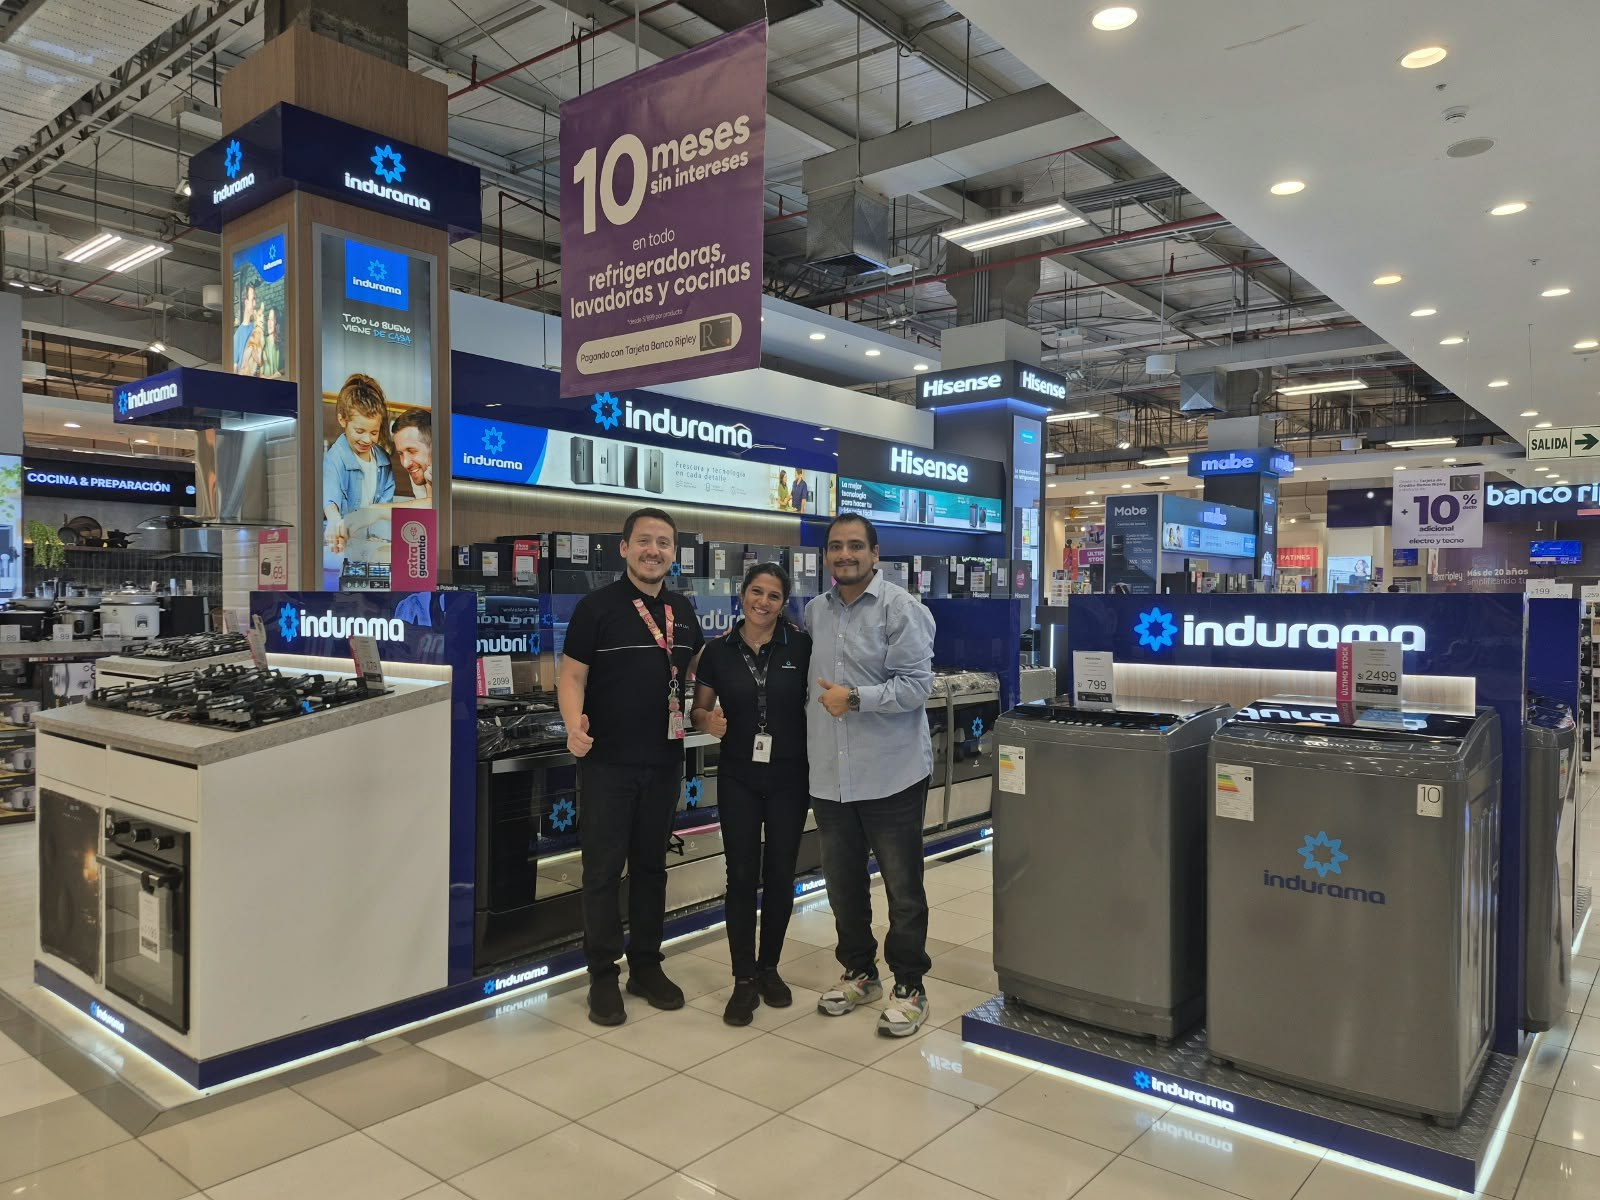
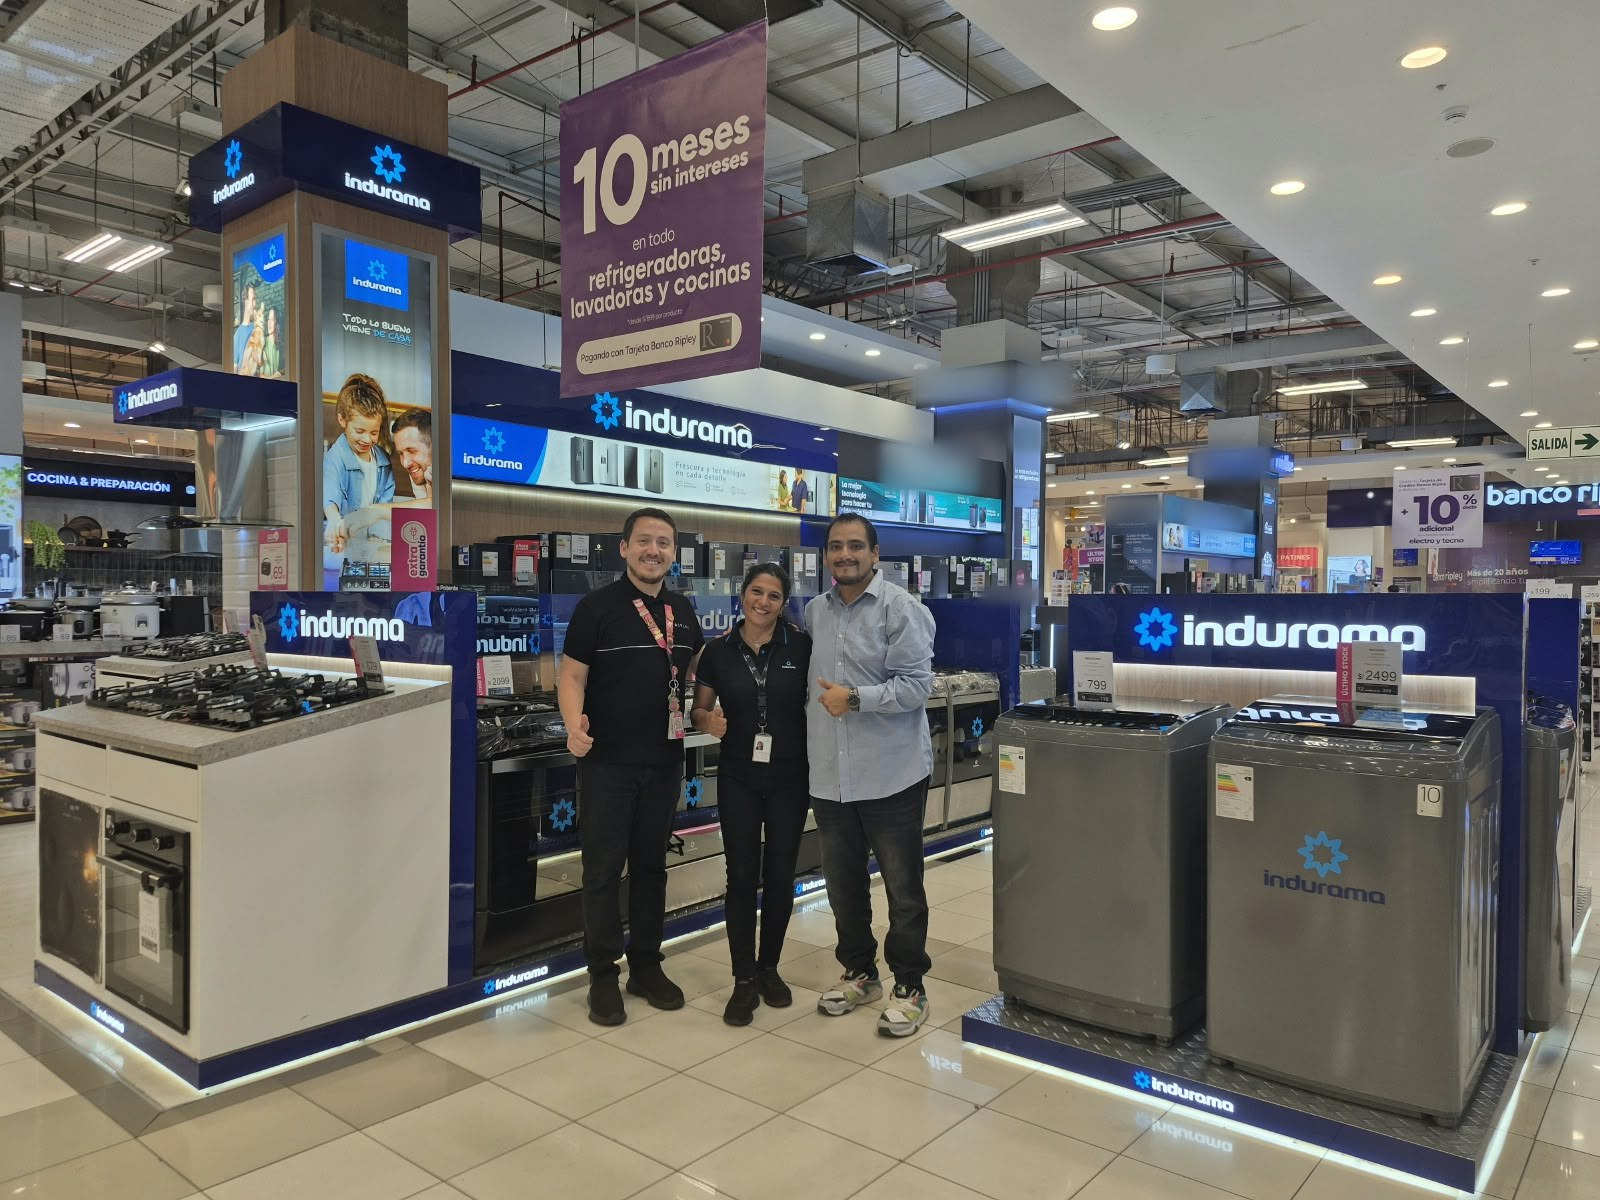
Region Norte (Saga Chiclayo, flooring antes/ahora, foto del equipo) y Lima Norte (Ripley San Miguel); marcas de la competencia difuminadas

Changed region(s): [[0.5312, 0.2775, 0.6875, 0.4317], [0.6875, 0.37, 0.8125, 0.4625], [0.625, 0.4933, 0.6562, 0.5242]]

diff --git a/historia/index.html b/historia/index.html
@@ -406,6 +406,13 @@ body.guia #num{display:block}
 .r26-grid span{font:700 30px CormSC;letter-spacing:1px;color:#f3e8c9}
 .r26-grid b{font:700 60px/1 Cinzel;background:var(--oro);-webkit-background-clip:text;background-clip:text;color:transparent;filter:drop-shadow(0 2px 4px rgba(0,0,0,.8))}
 .r26-grid b small{font-size:30px;margin-left:2px}
+.r26-ah{padding:22px 26px}
+.r26-ah > em{letter-spacing:4px;font-size:19px;white-space:nowrap}
+.r26-ah .r26-grid div{display:grid;grid-template-columns:1fr auto auto auto;align-items:baseline;gap:12px}
+.r26-ah .r26-grid i{font:700 30px Cinzel;font-style:normal;color:rgba(243,232,201,.55)}
+.r26-ah .r26-grid div em{font:400 28px Arial;font-style:normal;color:#e8c77a;border:0;padding:0;letter-spacing:0}
+.r26-ah .r26-grid b{font-size:56px}
+.r26-grid .r26-desde{display:block;margin:-10px 0 4px;text-align:right;font:500 italic 22px Playfair;color:#d9c08a}
 .r26-stats[style*="--cols:2"]{padding:22px 24px}
 .r26-stats[style*="--cols:2"] .r26-grid{gap:14px 30px}
 .r26-stats[style*="--cols:2"] .r26-grid span{font-size:26px}
@@ -598,7 +605,7 @@ body.guia #num{display:block}
     <div class="r26-lado">
       <div class="r26-clan an" style="--i:0"><i></i>LOS LOBOS</div>
       <div class="r26-reg zoom" style="--i:1">LIMA NORTE</div>
-      <div class="an" style="--i:3"><div class="r26-tienda"><small>LOGRO</small><b>LÍDERES EN COCINAS</b></div></div>
+      <div class="an" style="--i:3"><div class="r26-tienda"><small>TIENDA</small><b>RIPLEY SAN MIGUEL</b></div></div>
       <div class="r26-fotos"><div class="r26-foto an" style="--i:5;left:0px;top:0px;width:840px;height:410px"><div class="slot" data-r="2026 LIMA NORTE 1" data-desc="Foto 1 · LIMA NORTE"></div></div><div class="r26-stats an" style="--i:7;left:870px;width:380px;--cols:1"><em>PARTICIPACIÓN EN PISO</em><div class="r26-grid"><div><span>Cocinas</span><b>36<small>%</small></b></div><div><span>Refrigeración</span><b>22<small>%</small></b></div><div><span>Lavado</span><b>13<small>%</small></b></div></div></div></div>
       <div class="r26-accion an" style="--i:9"><small>LA ACCIÓN</small><div>Lideramos la exhibición de cocinas y vamos por refrigeración y lavado.</div></div>
     </div>
@@ -647,15 +654,15 @@ body.guia #num{display:block}
       <div class="r26-accion an" style="--i:9"><small>LA ACCIÓN</small><div>Vendiendo por kiosko abrimos categorías nuevas, y hoy las congeladoras siguen en piso.</div></div>
     </div>
   </section>
-  <section class="d" data-tema="jun" data-f="14-6" data-musica="media/musica_jungla_fase.mp3" data-vol="bajo" data-nota="Región NORTE: fotos en recursos/2026 NORTE 1.jpg, 2.jpg…">
+  <section class="d" data-tema="jun" data-f="14-6" data-musica="media/musica_jungla_fase.mp3" data-vol="bajo" data-nota="Región NORTE: fotos en recursos/2026 NORTE 1.jpg, 2.jpg, 3.jpg">
     <div class="bg"></div><div class="capa-oscura" style="background:rgba(0,0,0,.3)"></div>
     <div class="r26-animal"><video src="media/AGUILA_loop.mp4" muted loop playsinline></video></div>
     <div class="r26-lado">
       <div class="r26-clan an" style="--i:0"><i></i>LAS ÁGUILAS</div>
       <div class="r26-reg zoom" style="--i:1">NORTE</div>
-      <div class="an" style="--i:3"><div class="r26-tienda"><small>TIENDA</small><b>NOMBRE DE LA TIENDA</b></div></div>
-      <div class="r26-fotos"><div class="r26-foto an" style="--i:5;left:0px;top:0px;width:610px;height:410px"><div class="slot" data-r="2026 NORTE 1" data-desc="Foto 1 · NORTE"></div></div><div class="r26-foto an" style="--i:6;left:640px;top:0px;width:610px;height:410px"><div class="slot" data-r="2026 NORTE 2" data-desc="Foto 2 · NORTE"></div></div></div>
-      <div class="r26-accion an" style="--i:9"><small>LA ACCIÓN</small><div>Aquí va, en una frase corta, la acción que hizo la región.</div></div>
+      <div class="an" style="--i:3"><div class="r26-tienda"><small>TIENDA</small><b>SAGA CHICLAYO</b></div></div>
+      <div class="r26-fotos"><div class="r26-foto an" style="--i:5;left:0px;top:0px;width:470px;height:410px"><div class="slot" data-r="2026 NORTE 1" data-desc="Foto 1 · NORTE"></div></div><div class="r26-foto an" style="--i:6;left:490px;top:0px;width:250px;height:197px"><div class="slot" data-r="2026 NORTE 2" data-desc="Foto 2 · NORTE"></div></div><div class="r26-foto an" style="--i:7;left:490px;top:213px;width:250px;height:197px"><div class="slot" data-r="2026 NORTE 3" data-desc="Foto 3 · NORTE"></div></div><div class="r26-stats r26-ah an" style="--i:7;left:770px;width:480px;--cols:1"><em>FLOORING · ANTES → AHORA</em><div class="r26-grid"><div><span>Cocinas</span><i>11%</i><em>→</em><b>36<small>%</small></b></div><div><span>Refrigeración</span><i>7%</i><em>→</em><b>14<small>%</small></b></div><div><span>Lavado</span><i>0%</i><em>→</em><b>17<small>%</small></b></div></div></div></div>
+      <div class="r26-accion an" style="--i:9"><small>LA ACCIÓN</small><div>Trabajo en equipo de KAM, supervisor y promotor: ganamos piso en las tres categorías.</div></div>
     </div>
   </section>
 
@@ -939,7 +946,7 @@ function brasas(){ const cv=document.getElementById("brasas"), x=cv.getContext("
 let actual=-1;
 const vjun=document.getElementById("vjun");
 /* ===== NOTAS DEL PRESENTADOR (tecla N, solo para repasar) ===== */
-const NOTAS={"00": {"t": "Portada", "x": "Buenas noches a todos. Hoy no venimos solo a ver números: venimos a contar una historia. La historia de cómo, en tres años, fuimos ganando el piso de venta, tienda por tienda. <i>(Pausa, dejar que se vea el título.)</i> Esta es… la conquista del piso."}, "03": {"t": "Las 3 fases", "x": "Como toda gran saga, esta historia tiene tres capítulos. <b>2024</b>, el despegue: la Guerra de los Pisos. <b>2025</b>, la expansión: la Liga Invencible. Y <b>2026</b>, la consolidación: la Jungla del Flooring. Tres años, tres batallas, un solo objetivo: ser la marca que manda en el piso."}, "04": {"t": "Fase 1 · 2024", "x": "Empezamos en 2024. El reto era claro: ganar presencia en el piso de venta frente a marcas muy establecidas. Fue nuestro despegue, la Guerra de los Pisos."}, "05": {"t": "El rival · coreanas", "x": "Del otro lado estaban las marcas coreanas. Tenían el espacio, la exhibición y la costumbre del cliente. Cada tienda tenía su piso… y no era nuestro. Para competir había que estar mejor exhibidos y más cerca del cliente."}, "06": {"t": "Fase 1 · Las misiones", "x": "¿Cómo lo hicimos? Con tres frentes: <b>exhibiciones</b> que se notaran en tienda, <b>fidelización</b>, cuidando la relación con cada cliente, y una <b>tripulación</b> unida. Cada exhibición armada y cada cliente atendido fue un paso adelante."}, "07": {"t": "Ganamos la primera batalla", "x": "Y lo logramos: ganamos la primera batalla y recuperamos piso de tienda. Fue la prueba de que, cuando el equipo empuja en la misma dirección, el piso responde."}, "08": {"t": "Fase 2 · 2025", "x": "Llegó 2025, la fase de la expansión. Ya no se trataba solo de defender: había que crecer, llegar a más tiendas y a más ciudades. Así nació la Liga Invencible."}, "09": {"t": "El rival · chinas", "x": "Pero apareció un nuevo rival: las marcas chinas, que llegaron con precio y con volumen. Era un desafío distinto, y había que responder con lo que nos diferencia: exhibición, servicio y equipo."}, "09b": {"t": "Antes y después", "x": "Y esto se ve en el piso. <i>(Señalar la izquierda.)</i> Así se veía antes: productos sueltos, en fila, sin nada que los distinga… <i>(pausa, señalar la derecha)</i> y así se ve hoy: módulos, columnas e islas con la marca. Pasamos de productos sueltos a espacios con marca."}, "10": {"t": "Fase 2 · La expansión", "x": "La respuesta fue clara. <b>Más piso</b>: más y mejores exhibiciones. <b>Más ventas</b>: promotores que convierten cada visita en una venta. <b>Equipo mejor capacitado</b>: promotores que se prepararon para vender mejor. <i>(Pausa.)</i> Así, la Liga se volvió invencible."}, "11": {"t": "Ganamos la segunda batalla", "x": "Y otra vez lo logramos: <b>ganamos la segunda batalla</b>. La Liga llegó a más tiendas y a más ciudades, con más piso, más ventas y un equipo mejor preparado."}, "12": {"t": "Fase 3 · 2026", "x": "Y llegamos a este año, 2026: la Jungla del Flooring. La fase de la consolidación, donde todo lo construido tenía que dar su mejor resultado."}, "13": {"t": "El reto", "x": "En 2026 el reto cambió. <i>(Pausa.)</i> Ya no había que conquistar el piso… <i>(pausa)</i> había que sostenerlo. Y sostener es más difícil que conquistar: exige constancia todos los días, en cada tienda."}, "14-1": {"t": "Región Lima Norte", "x": "<b>Lima Norte</b>, los lobos. Nuestra mayor fortaleza está en cocinas: lideramos la participación de exhibición con <b>36 %</b>. En refrigeración (22 %) y lavado (13 %) tenemos espacio para crecer, con más productos exhibidos y más presencia de marca en el punto de venta."}, "14-2": {"t": "Región Lima Sur", "x": "<b>Lima Sur</b>, los halcones. En <b>Metro Próceres</b> fortalecimos la relación con el jefe de tienda y los vendedores. Implementamos módulos de cocina y refrigeración y, junto al promotor, ganamos nuevos espacios: cocinas 40 %, refrigeración 40 %, lavado 16 % y congeladoras 50 %."}, "14-3": {"t": "Región Lima Centro", "x": "<b>Lima Centro</b>, los leones. <b>Oechsle Centro Cívico</b> es el ejemplo de un flooring afianzado: por los muebles presentes, por la participación frente a otras marcas y por cómo se sostuvieron las ventas."}, "14-4": {"t": "Región Sur · Oriente", "x": "<b>Sur · Oriente</b>, las pirañas. En Arequipa se formó y fidelizó un equipo de promotores, trabajando de cerca con cada uno. En <b>Tienda Estilos</b> mejoramos posicionamiento y exhibición con el promotor: cocinas 42 %, refrigeración 27 % y lavado 19 %."}, "14-5": {"t": "Región Centro Nsch", "x": "<b>Centro NSCH</b>, los jaguares. En <b>Oechsle Ica</b> el éxito del flooring vino de vender por kiosko categorías que no teníamos en piso. Hoy mantenemos congeladoras en el piso de venta, y eso ayudó a armar las rumas de PEDs."}, "14-6": {"t": "Región Norte", "x": "<b>Norte</b>, las águilas. <i>(Pendiente: tienda y acción.)</i>"}, "15": {"t": "Una sola manada", "x": "Esto se logró en todo el país: Chiclayo, Huánuco, Iquitos, Trujillo y cada ciudad donde estamos, con exhibiciones impecables y una atención cercana. <i>(Esperar a que caigan las fotos.)</i> Muchas ciudades, muchos equipos… una sola manada."}, "15b": {"t": "Ganamos la tercera batalla", "x": "Y en 2026, el reto más difícil: sostener lo conquistado. <i>(Pausa.)</i> Lo hicimos. <b>Ganamos la tercera batalla</b>: sostuvimos el piso, tienda por tienda, región por región. <i>(Pausa antes de mostrar los números.)</i>"}, "16": {"t": "Clímax · Marca N.º 1", "x": "Miremos el camino. En 2023 partimos con el <b>12,8 %</b> de participación: éramos terceros. En 2024 crecimos al <b>18,6 %</b>. En 2025 subimos al <b>22,0 %</b>: segundos. <i>(Los escalones se detienen en 2025. Pausa.)</i> ¿Y en 2026…? <i>(Clic para revelar 2026.)</i> <b>24,8 %</b>. <i>(Dejar que aparezca.)</i> Somos la marca número uno. <br><small>⚠ Confirmar que los porcentajes estén validados y qué miden antes del evento.</small>"}, "18": {"t": "2027 · La historia continúa", "x": "Y esto no termina aquí. 2027 ya viene, con nuevos retos y nuevas metas. La historia continúa… <i>(pausa)</i> y el liderazgo continúa. <i>(Pausa.)</i> Pero antes de mirar al futuro, hoy queremos reconocer a quienes hicieron posible este año. <b>Pasamos a la premiación.</b>"}};
+const NOTAS={"00": {"t": "Portada", "x": "Buenas noches a todos. Hoy no venimos solo a ver números: venimos a contar una historia. La historia de cómo, en tres años, fuimos ganando el piso de venta, tienda por tienda. <i>(Pausa, dejar que se vea el título.)</i> Esta es… la conquista del piso."}, "03": {"t": "Las 3 fases", "x": "Como toda gran saga, esta historia tiene tres capítulos. <b>2024</b>, el despegue: la Guerra de los Pisos. <b>2025</b>, la expansión: la Liga Invencible. Y <b>2026</b>, la consolidación: la Jungla del Flooring. Tres años, tres batallas, un solo objetivo: ser la marca que manda en el piso."}, "04": {"t": "Fase 1 · 2024", "x": "Empezamos en 2024. El reto era claro: ganar presencia en el piso de venta frente a marcas muy establecidas. Fue nuestro despegue, la Guerra de los Pisos."}, "05": {"t": "El rival · coreanas", "x": "Del otro lado estaban las marcas coreanas. Tenían el espacio, la exhibición y la costumbre del cliente. Cada tienda tenía su piso… y no era nuestro. Para competir había que estar mejor exhibidos y más cerca del cliente."}, "06": {"t": "Fase 1 · Las misiones", "x": "¿Cómo lo hicimos? Con tres frentes: <b>exhibiciones</b> que se notaran en tienda, <b>fidelización</b>, cuidando la relación con cada cliente, y una <b>tripulación</b> unida. Cada exhibición armada y cada cliente atendido fue un paso adelante."}, "07": {"t": "Ganamos la primera batalla", "x": "Y lo logramos: ganamos la primera batalla y recuperamos piso de tienda. Fue la prueba de que, cuando el equipo empuja en la misma dirección, el piso responde."}, "08": {"t": "Fase 2 · 2025", "x": "Llegó 2025, la fase de la expansión. Ya no se trataba solo de defender: había que crecer, llegar a más tiendas y a más ciudades. Así nació la Liga Invencible."}, "09": {"t": "El rival · chinas", "x": "Pero apareció un nuevo rival: las marcas chinas, que llegaron con precio y con volumen. Era un desafío distinto, y había que responder con lo que nos diferencia: exhibición, servicio y equipo."}, "09b": {"t": "Antes y después", "x": "Y esto se ve en el piso. <i>(Señalar la izquierda.)</i> Así se veía antes: productos sueltos, en fila, sin nada que los distinga… <i>(pausa, señalar la derecha)</i> y así se ve hoy: módulos, columnas e islas con la marca. Pasamos de productos sueltos a espacios con marca."}, "10": {"t": "Fase 2 · La expansión", "x": "La respuesta fue clara. <b>Más piso</b>: más y mejores exhibiciones. <b>Más ventas</b>: promotores que convierten cada visita en una venta. <b>Equipo mejor capacitado</b>: promotores que se prepararon para vender mejor. <i>(Pausa.)</i> Así, la Liga se volvió invencible."}, "11": {"t": "Ganamos la segunda batalla", "x": "Y otra vez lo logramos: <b>ganamos la segunda batalla</b>. La Liga llegó a más tiendas y a más ciudades, con más piso, más ventas y un equipo mejor preparado."}, "12": {"t": "Fase 3 · 2026", "x": "Y llegamos a este año, 2026: la Jungla del Flooring. La fase de la consolidación, donde todo lo construido tenía que dar su mejor resultado."}, "13": {"t": "El reto", "x": "En 2026 el reto cambió. <i>(Pausa.)</i> Ya no había que conquistar el piso… <i>(pausa)</i> había que sostenerlo. Y sostener es más difícil que conquistar: exige constancia todos los días, en cada tienda."}, "14-1": {"t": "Región Lima Norte", "x": "<b>Lima Norte</b>, los lobos. Esta es <b>Ripley San Miguel</b>. Nuestra mayor fortaleza está en cocinas: lideramos la participación de exhibición con <b>36 %</b>. En refrigeración (22 %) y lavado (13 %) tenemos espacio para crecer, con más productos exhibidos y más presencia de marca en el punto de venta."}, "14-2": {"t": "Región Lima Sur", "x": "<b>Lima Sur</b>, los halcones. En <b>Metro Próceres</b> fortalecimos la relación con el jefe de tienda y los vendedores. Implementamos módulos de cocina y refrigeración y, junto al promotor, ganamos nuevos espacios: cocinas 40 %, refrigeración 40 %, lavado 16 % y congeladoras 50 %."}, "14-3": {"t": "Región Lima Centro", "x": "<b>Lima Centro</b>, los leones. <b>Oechsle Centro Cívico</b> es el ejemplo de un flooring afianzado: por los muebles presentes, por la participación frente a otras marcas y por cómo se sostuvieron las ventas."}, "14-4": {"t": "Región Sur · Oriente", "x": "<b>Sur · Oriente</b>, las pirañas. En Arequipa se formó y fidelizó un equipo de promotores, trabajando de cerca con cada uno. En <b>Tienda Estilos</b> mejoramos posicionamiento y exhibición con el promotor: cocinas 42 %, refrigeración 27 % y lavado 19 %."}, "14-5": {"t": "Región Centro Nsch", "x": "<b>Centro NSCH</b>, los jaguares. En <b>Oechsle Ica</b> el éxito del flooring vino de vender por kiosko categorías que no teníamos en piso. Hoy mantenemos congeladoras en el piso de venta, y eso ayudó a armar las rumas de PEDs."}, "14-6": {"t": "Región Norte", "x": "<b>Norte</b>, las águilas. En <b>Saga Chiclayo</b>, una tienda muy importante, crecimos en flooring en las tres categorías. Cocinas pasó de <b>11 % a 36 %</b>, refrigeración de <b>7 % a 14 %</b>, y en lavado, donde no teníamos presencia, llegamos a <b>17 %</b>. Fue trabajo en equipo: el KAM, la supervisión, la promotoría y el jefe de piso, José Luis, que fue un gran apoyo. Y la fidelización en tienda se consolidó gracias al excelente trabajo de nuestra promotora, <b>Yajaira Díaz</b>. Eso nos permite seguir creciendo en 2027."}, "15": {"t": "Una sola manada", "x": "Esto se logró en todo el país: Chiclayo, Huánuco, Iquitos, Trujillo y cada ciudad donde estamos, con exhibiciones impecables y una atención cercana. <i>(Esperar a que caigan las fotos.)</i> Muchas ciudades, muchos equipos… una sola manada."}, "15b": {"t": "Ganamos la tercera batalla", "x": "Y en 2026, el reto más difícil: sostener lo conquistado. <i>(Pausa.)</i> Lo hicimos. <b>Ganamos la tercera batalla</b>: sostuvimos el piso, tienda por tienda, región por región. <i>(Pausa antes de mostrar los números.)</i>"}, "16": {"t": "Clímax · Marca N.º 1", "x": "Miremos el camino. En 2023 partimos con el <b>12,8 %</b> de participación: éramos terceros. En 2024 crecimos al <b>18,6 %</b>. En 2025 subimos al <b>22,0 %</b>: segundos. <i>(Los escalones se detienen en 2025. Pausa.)</i> ¿Y en 2026…? <i>(Clic para revelar 2026.)</i> <b>24,8 %</b>. <i>(Dejar que aparezca.)</i> Somos la marca número uno. <br><small>⚠ Confirmar que los porcentajes estén validados y qué miden antes del evento.</small>"}, "18": {"t": "2027 · La historia continúa", "x": "Y esto no termina aquí. 2027 ya viene, con nuevos retos y nuevas metas. La historia continúa… <i>(pausa)</i> y el liderazgo continúa. <i>(Pausa.)</i> Pero antes de mirar al futuro, hoy queremos reconocer a quienes hicieron posible este año. <b>Pasamos a la premiación.</b>"}};
 function pintarNotas(d){ const n=NOTAS[d.dataset.f], el=document.getElementById("notas");
   el.innerHTML=n?`<div class="nt">${actual+1} / ${diapos.length} · ${n.t}</div><div class="nx">${n.x}</div>`:`<div class="nt">${actual+1} / ${diapos.length}</div><div class="nx">Sin notas.</div>`; }
 function ir(n,refresco){
